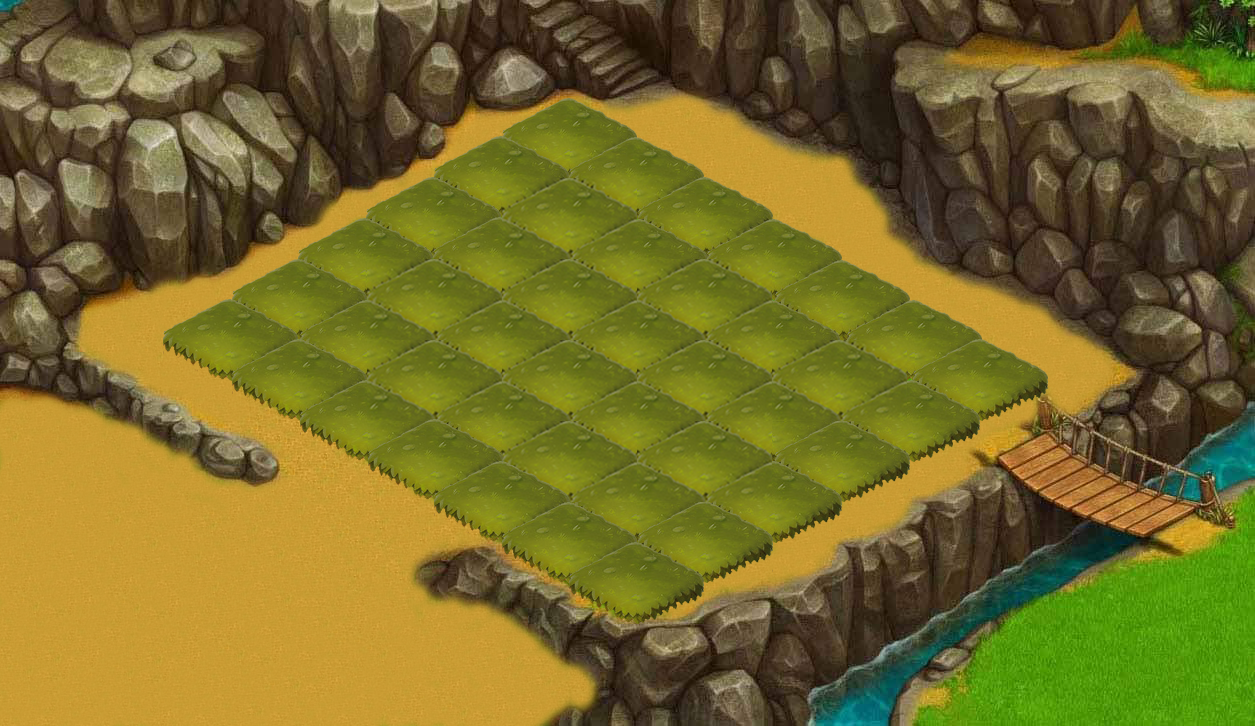
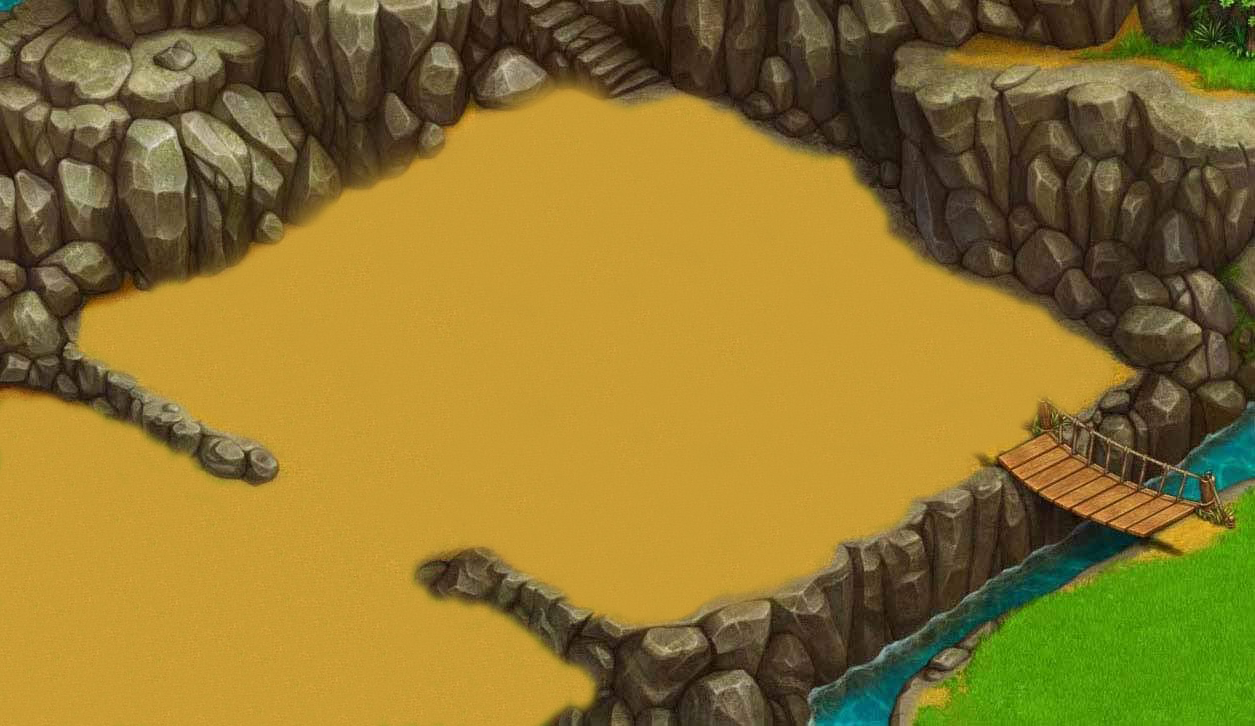
update farm interface

Changed region(s): [[0.1243, 0.0909, 0.839, 0.8788]]

diff --git a/Ferma.WEB/Content/Site.css b/Ferma.WEB/Content/Site.css
@@ -42,12 +42,12 @@ textarea {
     max-width: 280px;
 }
 .farmhead {
-    margin-left: 12%;
-    margin-top: 60%;
+    margin-left: 19%;
+    margin-top: 2%;
     z-index: 1;
     position: fixed;
-    width: 80%;
-    height: 100%;
+    width: 70%;
+    height: 10%;
 }
 
 .farmbody {
@@ -59,7 +59,7 @@ textarea {
     background-size: cover;
     height: 100%;
     width: 100%;
-    position: absolute;
+    position: fixed;
 }
 
 .nameplate {
@@ -68,30 +68,28 @@ textarea {
     background-size: contain;
     padding-top: 1%;
     width: 19%;
-    height: 12%;
+    height: 100%;
     color: burlywood;
     z-index: 1;
 }
 
     .nameplate img {
-        margin-left: 20%;
+        margin-left: 10%;
         margin-right: 20%;
-        margin-top: 10%;
+        margin-top: 5%;
         width: 20%;
-        height: 40%;
+        height: 50%;
     }
 
 .nameplate h4 {
-    margin-top: -16%;
-    margin-left: 50%;
+    margin-top: -13%;
+    margin-left: 40%;
     font-size: 150%;
 }
 
 .farm {
-    margin: 19.5% 36%;
-    width: 50%;
-    height: 50%;
-    position: fixed;
+    margin: 13.5% 34%;
+    width: 40%;
 }
 
 .field {
@@ -99,23 +97,22 @@ textarea {
     background-size: contain;
     width: 100%;
     height: 100%;
-    margin: -5.9% 0px;
-    width: 25%;
-    height: 27%;
-    margin-left: -1%;
+    margin: -4% -2%;
+    width: 28%;
+    height: 13%;
     position: relative;
     display: inline-block;
 }
 .farm .field:nth-child(6n-2){
-    margin-left:12%;
+    margin-left:11%;
 }
 
 .field .imagebuild {
     background: url(../Images/Props/home.png) no-repeat;
     background-size: contain;
-    width: 80%;
-    height: 65%;
-    margin: -10% 5%;
+    width: 100%;
+    height: 80%;
+    margin: -4% 12%;
     position: absolute;
     z-index: 1;
 }
